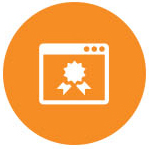
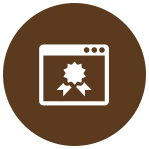
changes

diff --git a/assets/css/bootstrap.css b/assets/css/bootstrap.css
@@ -4126,10 +4126,11 @@ select[multiple].input-group-sm > .input-group-btn > .btn {
 }
 .breadcrumb > li {
   display: inline-block;
+  color:#a55f23;
 }
 .breadcrumb > li + li:before {
   padding: 0 5px;
-  color: #0f4459;
+  color: #a55f23;
   content: "/\00a0";
 }
 .breadcrumb > .active {
@@ -5893,7 +5894,7 @@ img{
 .inner-wrapper h2{
   text-align: center;
   text-decoration:none;
-  color: #1c6e93;
+  color: #5b391e;
   padding-bottom: 15px;
   position: relative;
   margin-bottom:30px;
@@ -5909,7 +5910,7 @@ img{
   left: 0;
   right: 0;
   margin: 0 auto;
-  border-bottom: solid 1px #8fc0c5; 
+  border-bottom: solid 1px #5b391e; 
 }
 
 .inner-wrapper h3{
@@ -5924,7 +5925,7 @@ img{
   clear: both;
   display: block;
   overflow: hidden;
-  border:solid 2px #f08e2b;
+  border:solid 2px #5b3a1e;
   text-align: center;
   padding: 0px;
   margin-top:25px;
@@ -5935,14 +5936,18 @@ img{
 .btn a{
   display: block;
   padding: 12px 0px;
-  color: #f08e2b;
+  color: #5b391e;
   text-decoration: none;
   font-size: 18px;
+}
+.whyus-sec .btn a:hover {
+	background:	#5b391e;
+	color:#fff;
 }
 
 
 .top-sec{
-  background: #2d3e50;
+  background: #727373;
   padding: 10px 0px;
 }
 
@@ -5972,14 +5977,14 @@ img{
 }
 
 .top-sec span.email{
-  color: #f29025;
+  color: #ccc;
 }
 
 .top-sec span.phonenum{
-  color: #a5b1bd;
+  color: #ccc;
   padding-right: 12px;
   margin-right: 12px;
-  border-right: solid 1px #a4b2bd;
+  border-right: solid 1px #999;
 }
 
 .header-sec{
@@ -6021,7 +6026,7 @@ img{
 }
 
 .menu ul ul{
-  border-top: solid 2px #f8a456;
+  border-top: solid 2px #5b391e;
   min-width: 190px;
   left:20px;
 }
@@ -6035,14 +6040,14 @@ img{
   top: -10px;
     border-left: 5px solid transparent;
   border-right: 5px solid transparent;
-  border-bottom: 10px solid #f8a456;
+  border-bottom: 10px solid #5b3a1e;
 }
 
 
 .request-btn{
   width: auto;
   float: right;
-  background: #f68d24;
+  background: #5b3a1e;
 }
 
 .request-btn .btn{
@@ -6056,12 +6061,12 @@ img{
 }
 
 .about-sec{
-  background: #145976;
+  background: #727273;
   padding: 55px 15px;
 }
 
 .about-sec p{
-    color: #4c9bba;
+    color: #333;
     font-size: 22px;
     line-height:30px;
     font-weight: bold;
@@ -6128,14 +6133,18 @@ img{
 }
 
 .testing-sec .btn{
-  border-color: #f08e2b;
+  border-color: #5b391e;
   max-width: 120px;
 }
 
 .testing-sec .btn a{
   padding:7px 0;
-  color: #f08e2b;
+  color: #5b391e;
   font-size: 15px;
+}
+.testing-sec .btn a:hover {
+background: #5b391e;
+color:#fff;	
 }
 
 .testimonial-sec{
@@ -6542,7 +6551,7 @@ h3, .h3{
 	text-align:center;
 }
 .page_head { 
-	background:#247da1;
+	background:#5b3a1e;
 	padding:15px;
 }
 .page-heading h2 {
@@ -6564,7 +6573,7 @@ h3, .h3{
 	padding-right:15px;	
 }
 .pg_sec h2, .pg_sec_side h2 {
-	color:#247da1;
+	color:#5b391e;
 	font-size:27px;
 	font-family:"rolight";
 	font-weight:300;
@@ -6613,8 +6622,8 @@ h3, .h3{
 	font-weight:300;
 }
 .pg_link_side ul li a.active {
-	color:#f68c24;
-	border-left:5px solid #247da1;	
+	color:#a55f23;
+	border-left:5px solid #727273;	
 }
 .pg_link_side ul li a:hover {
 	text-decoration:none;
@@ -6645,11 +6654,11 @@ form.contact textarea {
     resize: none;
 }
 form.contact button, form.contact input#send {
-     border: 2px solid #f08e2b;
+     border: 2px solid #5b391e;
     border-radius: 0;
 	background:#fff;
     clear: both;
-	color:#f08e2b;
+	color:#5b391e;
 	font-size:17px;
     display: block;
    
@@ -6660,8 +6669,8 @@ form.contact button, form.contact input#send {
    
 }
 form.contact button:hover, form.contact input#send:hover {
-    background: #f08e2b none repeat scroll 0 0;
-	color:#fff;
+    background: #fff none repeat scroll 0 0;
+	color:#5b391e;
 }
 
 

diff --git a/assets/css/menu.css b/assets/css/menu.css
@@ -61,7 +61,7 @@
     text-decoration: none
 }
 .menu ul li a:hover {
-	color:#f8a456 !important;
+	color:#5b391e !important;
 }
 .menu .arrow:after {
     content: "";
@@ -142,7 +142,7 @@
 }
 
 .mega-menu:before {
-	 border-bottom: 15px solid #f8a456;
+	 border-bottom: 15px solid #5b391e;
     border-left: 8px solid transparent;
     border-right: 8px solid transparent;
     content: "";
@@ -157,8 +157,8 @@
     top: 100%;
     padding: 18px 11px;
     background-color: #fff;
-    border: 1px solid #e0e0e0;
-	border-top:3px solid #f8a456;   
+    border: 1px solid #5b391e;
+	border-top:3px solid #5b391e;   
     color: #777;
 	width:500px;
     -webkit-box-shadow: 0 1px 3px rgba(0, 0, 0, 0.5);
@@ -187,12 +187,12 @@
     background-image: none
 }
 .mega-menu ol li a:hover {
-    color: #247da1 !important;
+    color: #5b391e !important;
 }
 .mega-menu div h4 {
     font-size: 14px;
     font-weight: 400;
-    color: #247da1;
+    color: #5b391e;
     
     padding: 0 0 8px 0;
     margin: 0 0 10px 0

diff --git a/index.html b/index.html
@@ -168,7 +168,7 @@ Save your coast of hiring cyclical technical resources
 			<h2>Why Us</h2>
 			<p>At Agile Budi, we understand the requirements of our customers and importance of delivering the products on time. We offer very competitive rate which allow our customers to invest in other areas of their business. At Agile Budi, we do not compromise on quality. That is one of the reasons why we only hire the best people of our field with enough experience to produce excellent quality software products.</p>
 
-<div class="btn margint-top"><a href="about.html">Learn More</a></div>
+<div class="btn margint-top"><a href="company_overview.html">Learn More</a></div>
 
 		</div>		
 	</div>

diff --git a/contact.html b/contact.html
@@ -161,7 +161,7 @@ of Resources</a></li>
                 
         
 
-<i class="fa fa-phone"></i><span class="cnt-dtl">Phone No. +44 7827 012 437</span><br>
+<i class="fa fa-phone"></i><span class="cnt-dtl"> +44 7827 012 437</span><br>
 <i class="fa fa-envelope"></i><span class="cnt-dtl">info@agilebudi.co.uk</span>
 </p>
             </div>
